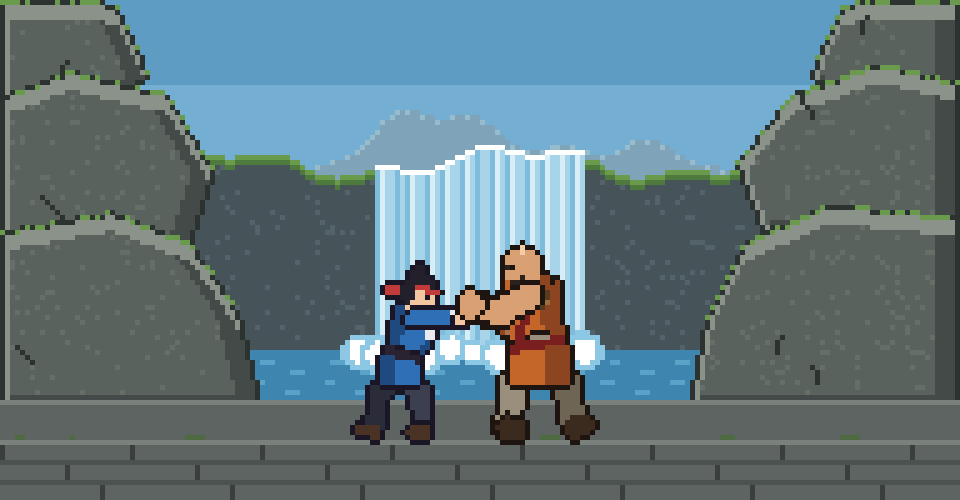
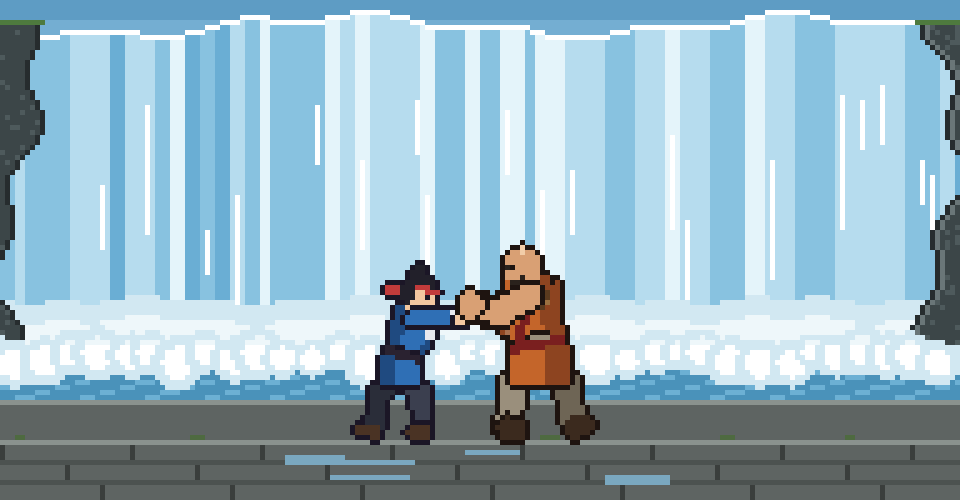
Waterfall stage: fight right in front of a huge waterfall filling the background

diff --git a/tools/gen_stages.py b/tools/gen_stages.py
@@ -461,120 +461,84 @@ def snow(W, H):
 
 
 def waterfall(W, H):
-    """Rock ledge in front of a waterfall between mossy cliffs."""
+    """Fight right in front of a huge waterfall that fills the background."""
     import random
     rnd = random.Random(5)
     s = Stage(W, H, {
-        "0": "5E9CC4", "1": "74AED2", "2": "8CC0DE", "3": "A6D2EA",        # day sky
-        "f": "7FA4BA", "F": "98BCCC",                                       # distant mountains
-        "c": "5A625E", "C": "666E68", "D": "434A48", "k": "2C3230", "K": "8A928A",   # rock: mid / texture / shade / seam / lit
-        "g": "4E7A3E", "G": "6A9A4C",                                       # moss / grass
-        "b": "46545A", "B": "54626A",                                       # back cliff behind the falls
-        "w": "D8EEF6", "W": "A8D4EA", "v": "7FBCDC", "u": "FFFFFF",          # falling water
-        "p": "3E86B0", "P": "5AA2C8", "o": "8CC8E4",                        # pool / ripples
-        "s": "5E6462", "S": "4C5250", "e": "7A807C", "d": "3A3E3C", "m": "4E6A40",   # wet stone floor
+        "0": "5E9CC4", "1": "74AED2",                                       # sky strip
+        "c": "3C4648", "C": "4E5A5C", "k": "262C2E", "K": "6A7678", "G": "4E7A3E",   # rock edges
+        "w": "E4F4FA", "W": "B6DCEE", "v": "88C2E0", "V": "6AAED4", "u": "FFFFFF",   # water tones
+        "z": "EEF7FA", "Z": "D2E8F2",                                       # mist / spray
+        "p": "4A92BA", "P": "6CB0D4",                                       # plunge pool
+        "s": "5E6462", "S": "4C5250", "e": "8A928E", "d": "3A3E3C", "m": "4E6A40", "o": "7AA8C0",  # wet floor
     })
-    s.sky("0123", 0, s.Y(44))
-    s.ridge("f", "F", 21, [(5, 0.07, 0.5), (2.5, 0.19, 1.2), (0.8, 0.6, 0.3)], bottom=s.Y(44))
-    # low back cliff the water falls from
-    lip = lambda dx: 21 + 1.5 * math.sin(dx * 0.17) + 0.7 * math.sin(dx * 0.5)
-    for x in range(W):
+    s.sky("01", 0, s.Y(6))
+    lip = lambda dx: 3 + 1.2 * math.sin(dx * 0.11) + 0.6 * math.sin(dx * 0.37)
+    # water curtain: vertical bands 2-4 px wide, brighter in the middle, darker toward the edges
+    x = 0
+    while x < W:
+        bw = rnd.choice((2, 3, 3, 4))
         dx = x / s.sx
-        for y in range(s.Y(lip(dx)), s.Y(46)):
-            s.g[y][x] = "B" if rnd.random() < 0.07 else "b"
-        s.put(x, s.Y(lip(dx)), "G")
-        s.put(x, s.Y(lip(dx)) + 1, "g")
-    # waterfall
-    fx0, fx1 = 47, 73
-    for x in range(s.X(fx0), s.X(fx1)):
-        dx = x / s.sx
-        k = int(dx * 1.7) % 7
-        col = "w" if k in (0, 3) else ("W" if k in (1, 4, 5) else "v")
-        for y in range(s.Y(lip(dx)) - 1, s.Y(46)):
-            s.g[y][x] = col
-        s.put(x, s.Y(lip(dx)) - 1, "u")
-    # pool, ripples, foam
-    for y in range(s.Y(45), s.Y(51)):
+        centre = 1 - abs(dx - DW / 2) / (DW / 2)            # 1 in the middle, 0 at the edges
+        r = rnd.random() + centre * 0.6
+        col = "w" if r > 1.15 else ("W" if r > 0.75 else ("v" if r > 0.35 else "V"))
+        for xx in range(x, min(W, x + bw)):
+            for y in range(s.Y(lip(xx / s.sx)), s.Y(50)):
+                s.g[y][xx] = col
+            s.put(xx, s.Y(lip(xx / s.sx)), "u")
+        # a few long bright streaks running down inside the band
+        if rnd.random() < 0.35:
+            sx = x + bw // 2
+            y0 = rnd.randrange(s.Y(6), s.Y(30))
+            for y in range(y0, min(s.Y(50), y0 + rnd.randrange(s.Y(6), s.Y(18)))):
+                s.put(sx, y, "u")
+        x += bw
+    # dark rock peeking at both edges, behind the spray
+    for side in (0, 1):
+        for y in range(s.Y(lip(0)) - 1, s.Y(50)):
+            wdt = 3 + 2.2 * math.sin(y * 0.09 + side * 2) + 1.2 * math.sin(y * 0.31)
+            for k in range(int(wdt * s.sx)):
+                x = k if side == 0 else W - 1 - k
+                depth = int(wdt * s.sx) - k
+                s.g[y][x] = "k" if depth <= 1 else ("K" if depth <= 2 and side == 1 else ("C" if rnd.random() < 0.1 else "c"))
+        for k in range(int(6 * s.sx)):
+            x = k if side == 0 else W - 1 - k
+            s.put(x, s.Y(lip(0)) - 1, "G")
+    # plunge pool + churning foam + mist bank
+    for y in range(s.Y(46), s.Y(51)):
         s.g[y] = ["p"] * W
-    for y in range(s.Y(46), s.Y(51), 2):
         for x in range(W):
-            if math.sin(x * 0.45 + y * 1.7) > 0.8:
+            if math.sin(x * 0.5 + y * 1.9) > 0.7:
                 s.g[y][x] = "P"
-    fx = fx0 - 2
-    while fx < fx1 + 2:                                          # foam: overlapping round puffs
-        r = rnd.uniform(1.6, 2.6)
-        cy = 45 + rnd.uniform(-0.6, 0.6)
+    fx = -2.0
+    while fx < DW + 2:
+        r = rnd.uniform(2.2, 3.6)
+        cy = 46 + rnd.uniform(-1.2, 0.6)
         for y in range(s.Y(cy - r), s.Y(cy + r) + 1):
             for x in range(s.X(fx - r), s.X(fx + r) + 1):
                 d = math.hypot((x + 0.5) / s.sx - fx, (y + 0.5) / s.sy - cy)
                 if d <= r:
-                    s.put(x, y, "u" if d < r * 0.65 else "o")
-        fx += rnd.uniform(2.2, 3.4)
-
-    # framing cliffs: stacked angular boulders with lit top facets, shaded sides, dark seams
-    def boulder(pts):
-        """pts in design units; fill polygon with 3-tone faceted shading"""
-        spts = [(px * s.sx, py * s.sy) for px, py in pts]
-        mask = set()
-        ys = [p[1] for p in spts]
-        for y in range(max(0, int(min(ys))), min(s.ground, int(max(ys)) + 1)):
-            yc = y + 0.5
-            xs = []
-            for k in range(len(spts)):
-                (x1, y1), (x2, y2) = spts[k], spts[(k + 1) % len(spts)]
-                if (y1 <= yc < y2) or (y2 <= yc < y1):
-                    xs.append(x1 + (yc - y1) * (x2 - x1) / (y2 - y1))
-            xs.sort()
-            for a, b in zip(xs[0::2], xs[1::2]):
-                for x in range(int(round(a)), int(round(b))):
-                    if 0 <= x < W:
-                        mask.add((x, y))
-        def depth(x, y, dx, dy, lim):
-            n = 0
-            while n < lim and (x + dx * (n + 1), y + dy * (n + 1)) in mask:
-                n += 1
-            return n
-        for (x, y) in mask:
-            edge = not ((x, y - 1) in mask and (x, y + 1) in mask and (x - 1, y) in mask and (x + 1, y) in mask)
-            if edge:
-                col = "k"                                   # outline / seam
-                if (x, y - 1) not in mask and rnd.random() < 0.55:
-                    col = "G"                               # moss on top edges
-            elif depth(x, y, 0, -1, 4) < 1:
-                col = "G"                                   # moss on the very top
-            elif depth(x, y, 0, -1, 4) < 4 or depth(x, y, -1, 0, 3) < 2:
-                col = "K"                                   # lit top / left facet
-            elif depth(x, y, 1, 0, 6) < 5 or depth(x, y, 0, 1, 3) < 2:
-                col = "D"                                   # shaded right / bottom facet
-            else:
-                col = "C" if rnd.random() < 0.06 else "c"
-            s.g[y][x] = col
-        # a couple of cracks
-        cells = sorted(mask)
-        for _ in range(max(1, len(cells) // 900)):
-            x, y = rnd.choice(cells)
-            for _ in range(rnd.randint(3, 7)):
-                if (x, y) in mask and s.g[y][x] in "cCDK":
-                    s.g[y][x] = "k"
-                y += 1; x += rnd.choice((-1, 0, 0, 1))
-
-    left_blocks = [
-        [(-2, 30), (14, 27), (24, 31), (30, 40), (33, 52), (-2, 52)],
-        [(-2, 13), (9, 9), (21, 12), (27, 22), (24, 32), (12, 30), (-2, 33)],
-        [(-2, 0), (6, -2), (15, 1), (19, 10), (12, 14), (-2, 15)],
-    ]
-    right_blocks = [[(DW - x, y) for x, y in reversed(b)] for b in left_blocks]
-    right_blocks[0] = [(DW + 2, 28), (104, 26), (93, 31), (88, 41), (86, 52), (DW + 2, 52)]
-    right_blocks[1] = [(DW + 2, 11), (110, 8), (99, 12), (92, 21), (95, 30), (106, 28), (DW + 2, 31)]
-    for b in left_blocks[::-1] + right_blocks[::-1]:            # top blocks first, lower ones overlap them
-        boulder(b)
-    # wet rock ledge
+                    s.put(x, y, "u" if d < r * 0.6 else "Z")
+        fx += rnd.uniform(2.5, 4.0)
+    for y in range(s.Y(37), s.Y(44)):                          # mist rising from the pool: two soft solid layers
+        edge = s.Y(40) + int(1.5 * math.sin(y))
+        for x in range(W):
+            if s.g[y][x] in "vVWwu":
+                wave = int(1.2 * math.sin(x * 0.15) + 0.8 * math.sin(x * 0.41))
+                if y >= s.Y(41) + wave:
+                    s.g[y][x] = "z"
+                elif y >= s.Y(38.5) + wave:
+                    s.g[y][x] = "Z"
+    # wet rock ledge with puddles
     for y in range(s.Y(51), s.ground):
         s.g[y] = ["s"] * W
     s.rect(0, 51, DW, 0.8, "e")
     floor(s, "s", "S", "e", "d")
-    for x in range(W):                                           # moss tufts on the ground line
-        if math.sin(x * 0.19) + math.sin(x * 0.53) > 1.3:
+    for _ in range(6):                                        # puddles reflecting the water
+        px, py = rnd.uniform(6, DW - 14), rnd.uniform(DGROUND + 1.5, 62)
+        s.rect(px, py, rnd.uniform(5, 10), 0.8, "o")
+    for x in range(W):
+        if math.sin(x * 0.19) + math.sin(x * 0.53) > 1.4:
             s.put(x, s.ground - 1, "m")
     return s
 
